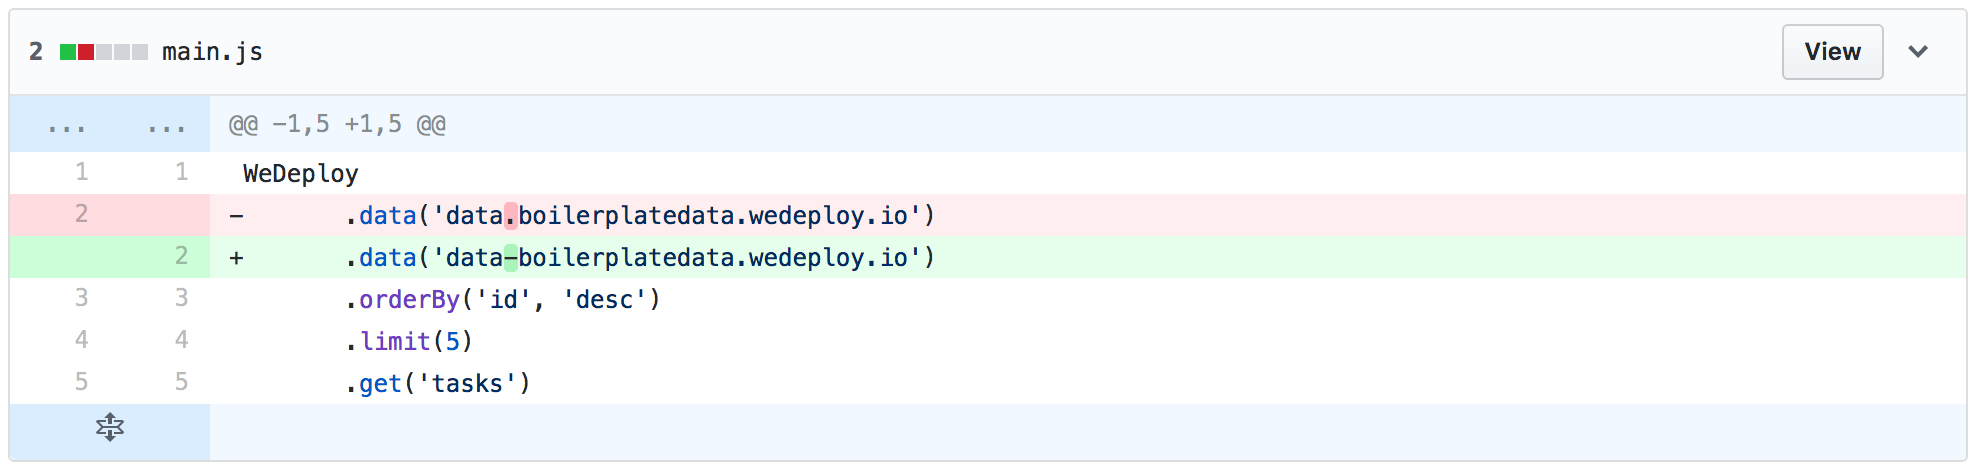
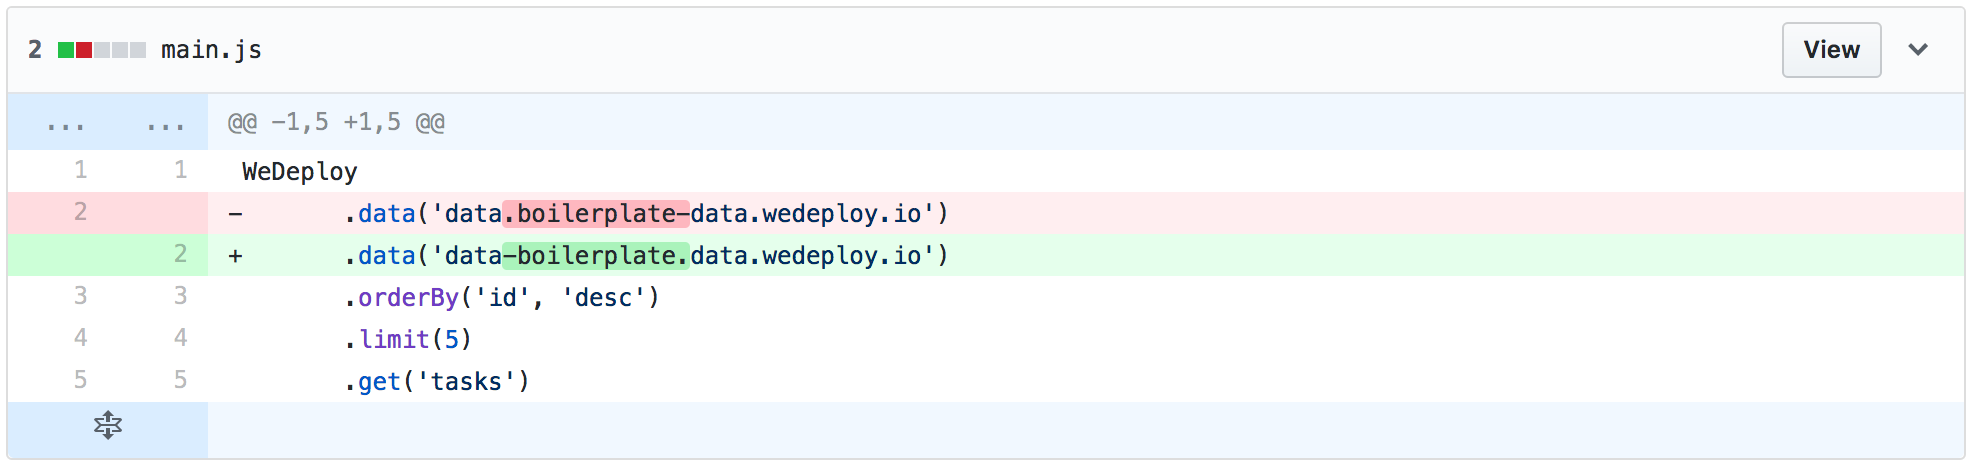
Adds content about project id changes

diff --git a/ui/src/pages/docs/deploy/migrating-to-beta.md b/ui/src/pages/docs/deploy/migrating-to-beta.md
@@ -102,6 +102,8 @@ Here is an example of the `wedeploy.json` that you could use to deploy a Liferay
 
 2. Each service now has its own domain instead of being a subdomain of your project. This means you must update your API endpoints (_serviceID-projectID.wedeploy.io_).
 
+3. Because of this domain change, we now no longer allow dashes in the project IDs.
+
 	![API URL Service](/images/docs/deploy/migration--api-url-service.png)
 
 </article>
